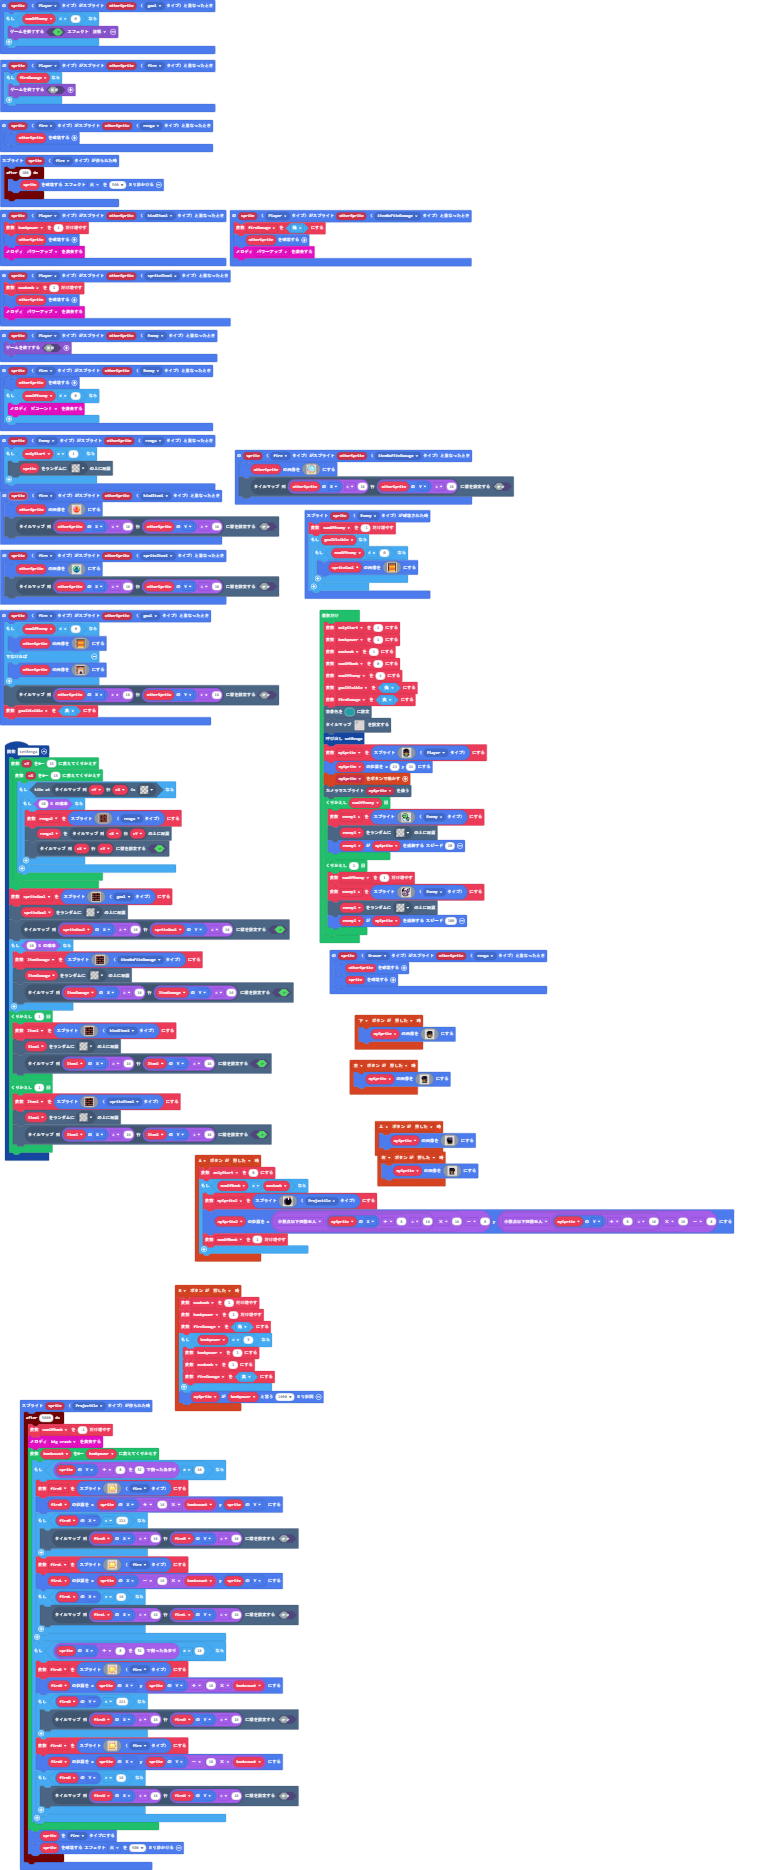
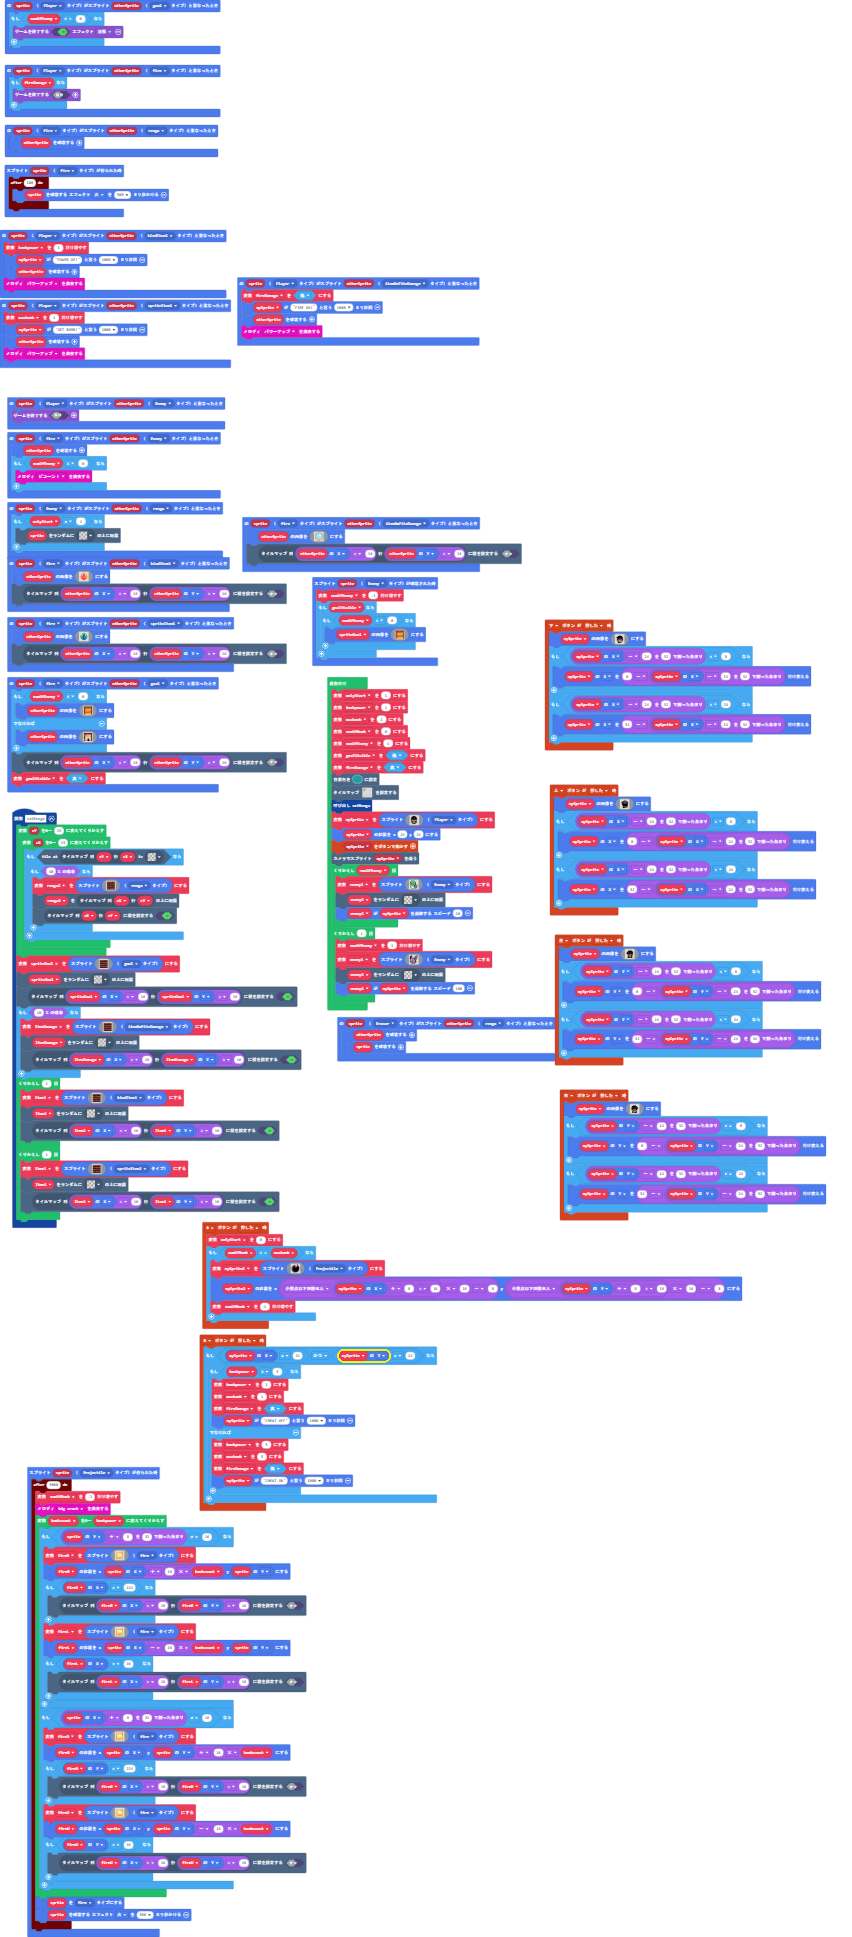
更新 main.blocks, main.ts

diff --git a/main.ts b/main.ts
@@ -35,25 +35,32 @@ sprites.onOverlap(SpriteKind.fire, SpriteKind.itemNoFiteDamage, function (sprite
 controller.right.onEvent(ControllerButtonEvent.Pressed, function () {
     mySprite.setImage(img`
         . . . . . . . . . . . . . 
-        . . . . . . . . . . . . . 
-        . . f f f f f f f f . . . 
+        . . . f f f f f f . . . . 
+        . f f f f f f f f f . . . 
         . f f f f f f c f f f . . 
-        . f f f c f f f c f f f . 
-        . c f f c c f f f c c f . 
-        . c c f f f f e f f f f . 
-        . f f f f f f e e f f f . 
-        . f e e f b f e e f f . . 
-        . f e 4 e 1 f 4 4 f f . . 
-        . f f f e e 4 4 4 f . . . 
-        . . f e 4 4 e e f f . . . 
-        . . f e 4 4 e 7 7 f . . . 
-        . f f f e e f 6 6 f f . . 
+        f f f f c f f f c f f f . 
+        f c f f c c f f f c c f f 
+        f c c f f f f e f f f f f 
+        f f f f f f f e e f f f . 
+        f f e e f b f e e f f f . 
+        f f e 4 e 1 f 4 4 f f . . 
+        . f f f e 4 4 4 4 f . . . 
+        . 4 4 4 e e e e f f . . . 
+        . e 4 4 e 7 7 7 7 f . . . 
+        . f e e f 6 6 6 6 f f . . 
         . f f f f f f f f f f . . 
-        . . . . . . . . . . . . . 
+        . . f f . . . f f f . . . 
         `)
+    if ((mySprite.y - 24) % 32 < 8) {
+        mySprite.y += 0 - (mySprite.y - 24) % 32
+    }
+    if ((mySprite.y - 24) % 32 > 24) {
+        mySprite.y += 32 - (mySprite.y - 24) % 32
+    }
 })
 sprites.onOverlap(SpriteKind.Player, SpriteKind.kindItem1, function (sprite, otherSprite) {
     bombpower += 1
+    mySprite.say("POWER UP!", 1000)
     otherSprite.destroy()
     music.powerUp.play()
 })
@@ -238,22 +245,28 @@ sprites.onOverlap(SpriteKind.Player, SpriteKind.fire, function (sprite, otherSpr
 controller.down.onEvent(ControllerButtonEvent.Pressed, function () {
     mySprite.setImage(img`
         . . . . . . . . . . . . . 
-        . . . . . . . . . . . . . 
+        . . . . . f f f f . . . . 
         . . . f f f f f f f f . . 
         . . f f f f f f c f f f . 
-        . f f f f f f c c f f f . 
-        . f f f c f f f f f f f . 
-        . c c c f f f e e f f c . 
-        . f f f f f e e f f c c . 
-        . f f f b f e e f b f f . 
-        . f f 4 1 f 4 4 f 1 4 f . 
-        . . f e 4 4 4 4 4 e e f . 
-        . f e f b 7 7 7 e 4 4 4 . 
+        f f f f f f f c c f f f c 
+        f f f f c f f f f f f f c 
+        . c c c f f f e e f f c c 
+        . f f f f f e e f f c c f 
+        . f f f b f e e f b f f f 
+        . f f 4 1 f 4 4 f 1 4 f f 
+        . . f e 4 4 4 4 4 e e f e 
+        . f e f b 7 7 7 e 4 4 4 e 
         . e 4 f 7 7 7 7 e 4 4 e . 
         . . . f 6 6 6 6 6 e e . . 
         . . . f f f f f f f . . . 
-        . . . . . . . . . . . . . 
+        . . . f f f . . . . . . . 
         `)
+    if ((mySprite.x - 24) % 32 < 8) {
+        mySprite.x += 0 - (mySprite.x - 24) % 32
+    }
+    if ((mySprite.x - 24) % 32 > 24) {
+        mySprite.x += 32 - (mySprite.x - 24) % 32
+    }
 })
 sprites.onOverlap(SpriteKind.fire, SpriteKind.kindItem1, function (sprite, otherSprite) {
     otherSprite.setImage(img`
@@ -278,31 +291,39 @@ sprites.onOverlap(SpriteKind.fire, SpriteKind.kindItem1, function (sprite, other
 })
 sprites.onOverlap(SpriteKind.Player, SpriteKind.spriteItem1, function (sprite, otherSprite) {
     maxbomb += 1
+    mySprite.say("GET BOMB!", 1000)
     otherSprite.destroy()
     music.powerUp.play()
 })
 controller.left.onEvent(ControllerButtonEvent.Pressed, function () {
     mySprite.setImage(img`
         . . . . . . . . . . . . . 
-        . . . . . . . . . . . . . 
-        . . . f f f f f f f f . . 
+        . . . . f f f f f f . . . 
+        . . . f f f f f f f f f . 
         . . f f f c f f f f f f . 
-        . f f f c f f f c f f f . 
-        . f c c f f f c c f f c . 
-        . f f f f e f f f f c c . 
-        . f f f e e f f f f f f . 
-        . . f f e e f b f e e f . 
+        . f f f c f f f c f f f f 
+        f f c c f f f c c f f c f 
+        f f f f f e f f f f c c f 
+        . f f f e e f f f f f f f 
+        . . f f e e f b f e e f f 
         . . f f 4 4 f 1 e 4 e f . 
         . . . f 4 4 4 e e f f f . 
         . . . f f e e 4 4 e f . . 
         . . . f 7 7 e 4 4 e f . . 
         . . f f 6 6 f e e f f f . 
         . . f f f f f f f f f f . 
-        . . . . . . . . . . . . . 
+        . . . f f f . . . f f . . 
         `)
+    if ((mySprite.y - 24) % 32 < 8) {
+        mySprite.y += 0 - (mySprite.y - 24) % 32
+    }
+    if ((mySprite.y - 24) % 32 > 24) {
+        mySprite.y += 32 - (mySprite.y - 24) % 32
+    }
 })
 sprites.onOverlap(SpriteKind.Player, SpriteKind.itemNoFiteDamage, function (sprite, otherSprite) {
     fireDamage = false
+    mySprite.say("FIRE OK!", 1000)
     otherSprite.destroy()
     music.powerUp.play()
 })
@@ -332,15 +353,19 @@ sprites.onOverlap(SpriteKind.Eraser, SpriteKind.renga, function (sprite, otherSp
     sprite.destroy()
 })
 controller.B.onEvent(ControllerButtonEvent.Pressed, function () {
-    maxbomb += 1
-    bombpower += 1
-    fireDamage = false
-    if (bombpower > 5) {
-        bombpower = 1
-        maxbomb = 1
-        fireDamage = true
+    if (mySprite.x == 24 && mySprite.y == 24) {
+        if (bombpower >= 5) {
+            bombpower = 1
+            maxbomb = 1
+            fireDamage = true
+            mySprite.say("CHEAT OFF", 1000)
+        } else {
+            bombpower = 5
+            maxbomb = 5
+            fireDamage = false
+            mySprite.say("CHEAT ON", 1000)
+        }
     }
-    mySprite.say(bombpower, 1000)
 })
 sprites.onOverlap(SpriteKind.Enemy, SpriteKind.renga, function (sprite, otherSprite) {
     if (onlyStart == 1) {
@@ -355,22 +380,28 @@ sprites.onOverlap(SpriteKind.Player, SpriteKind.goal, function (sprite, otherSpr
 controller.up.onEvent(ControllerButtonEvent.Pressed, function () {
     mySprite.setImage(img`
         . . . . . . . . . . . . . 
-        . . . . . . . . . . . . . 
+        . . . . . f f f f . . . . 
         . . . f f c c c c f f . . 
         . f f f c c c c c c f f . 
-        . f c c c c c c c c c f . 
-        . c c c c f c c c c c c . 
-        . f f f f c c c c f c c . 
-        . f f f f c c f c c c f . 
-        . f f f f f f f f f f f . 
-        . f f f f f f f f f f f . 
+        f f c c c c c c c c c f f 
+        f c c c c f c c c c c c f 
+        . f f f f c c c c f c c f 
+        . f f f f c c f c c c f f 
+        . f f f f f f f f f f f f 
+        . f f f f f f f f f f f f 
         . . f f f f f f f f f f . 
         . . e f f f f f f f f f . 
-        . . e f f f f f f f f e . 
-        . . 4 c 7 7 7 7 7 e 4 4 . 
+        . . e f f f f f f f f e f 
+        . . 4 c 7 7 7 7 7 e 4 4 e 
         . . e f f f f f f f e e . 
-        . . . . . . . . . . . . . 
+        . . . f f f . . . . . . . 
         `)
+    if ((mySprite.x - 24) % 32 < 8) {
+        mySprite.x += 0 - (mySprite.x - 24) % 32
+    }
+    if ((mySprite.x - 24) % 32 > 24) {
+        mySprite.x += 32 - (mySprite.x - 24) % 32
+    }
 })
 sprites.onCreated(SpriteKind.Projectile, function (sprite) {
     timer.after(5000, function () {
